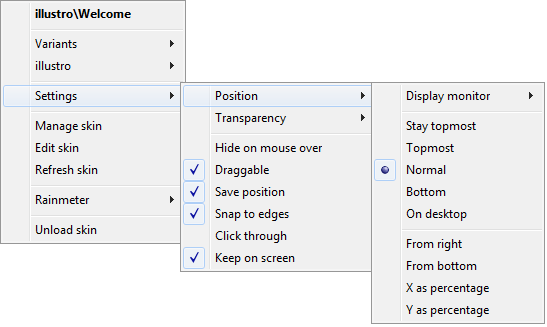
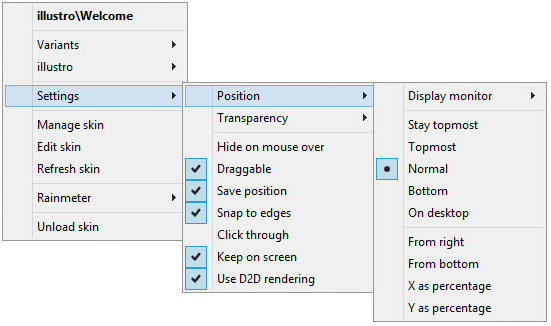
Updated some pages for default UseD2D

diff --git a/manual-beta/settings/skin-sections.html b/manual-beta/settings/skin-sections.html
@@ -83,6 +83,13 @@ title: 'Skin sections'
 	<dd>
 		<p>If set to <code>1</code>, the skin will be kept within the bounds of the screen.</p>
 	</dd>
+	
+	<dt id="UseD2D"><code>UseD2D</code> <small>Default: <code>1</code></small></dt>
+	<dd>
+		<p>Used to override the global <a href="!user-interface/manage#SettingsTab">UseD2D rendering</a> setting for an individual skin.</p>
+		<p>If set to <code>1</code> (default), UseD2D is enabled for this skin.  If set to <code>0</code>, UseD2D is disabled for this skin, and the older GDI+ rendering engine will be used.</p>
+		<p><b>Note:</b> This selection will be disabled if the system does not support Direct2D.</p>
+	</dd>	
 
 	<dt id="LoadOrder"><code>LoadOrder</code> <small>Default: <code>0</code></small></dt>
 	<dd>

diff --git a/manual-beta/user-interface/context-menus.html b/manual-beta/user-interface/context-menus.html
@@ -105,4 +105,5 @@ title: 'Context Menus'
 <li><b>Snap to edges</b>: The <a href="!settings/skin-sections#SnapEdges">snap to edges</a> setting for the skin.</li>
 <li><b>Click through</b>: The <a href="!settings/skin-sections#ClickThrough">click through</a> setting for the skin.</li>
 <li><b>Keep on screen</b>: The <a href="!settings/skin-sections#KeepOnScreen">keep on screen</a> setting for the skin.</li>
+<li><b>Use D2D rendering</b>: The <a href="!settings/skin-sections#UseD2D">UseD2D</a> setting for the skin.</li>
 </ul>
